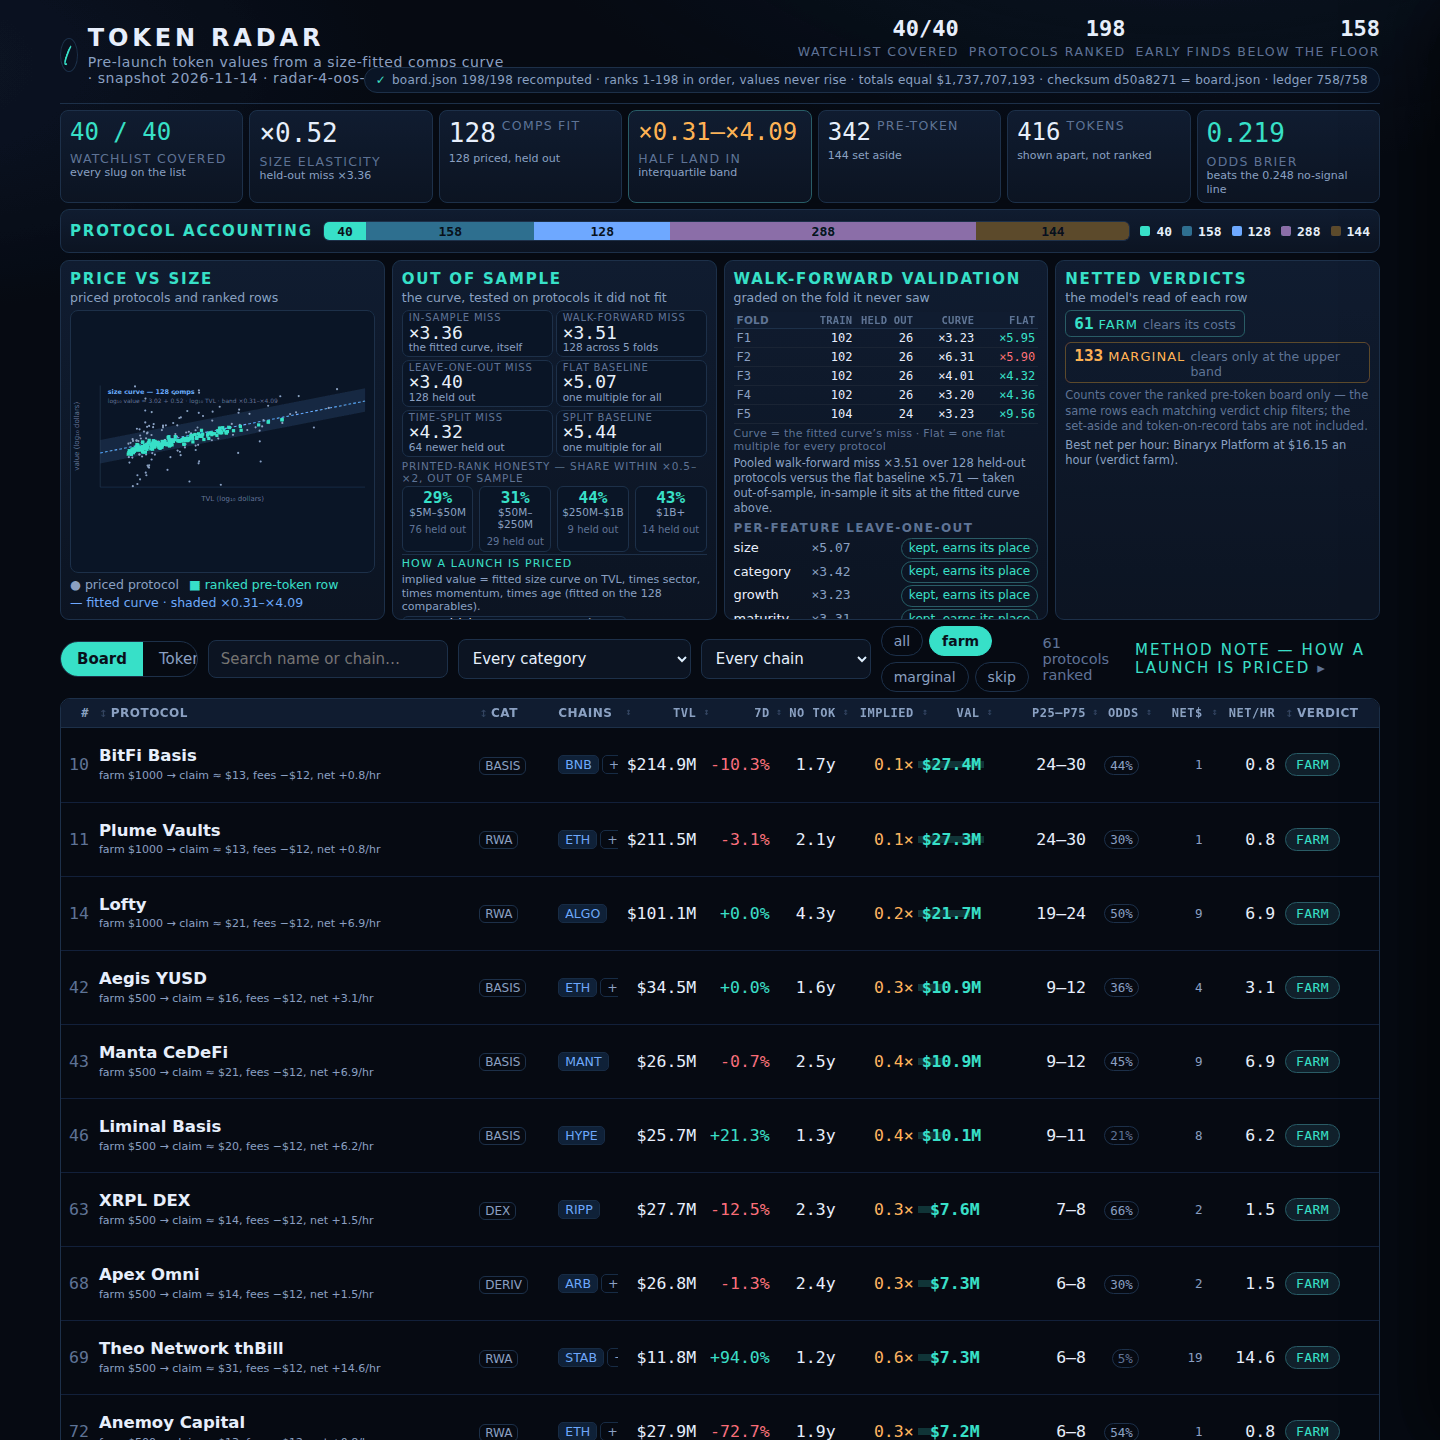
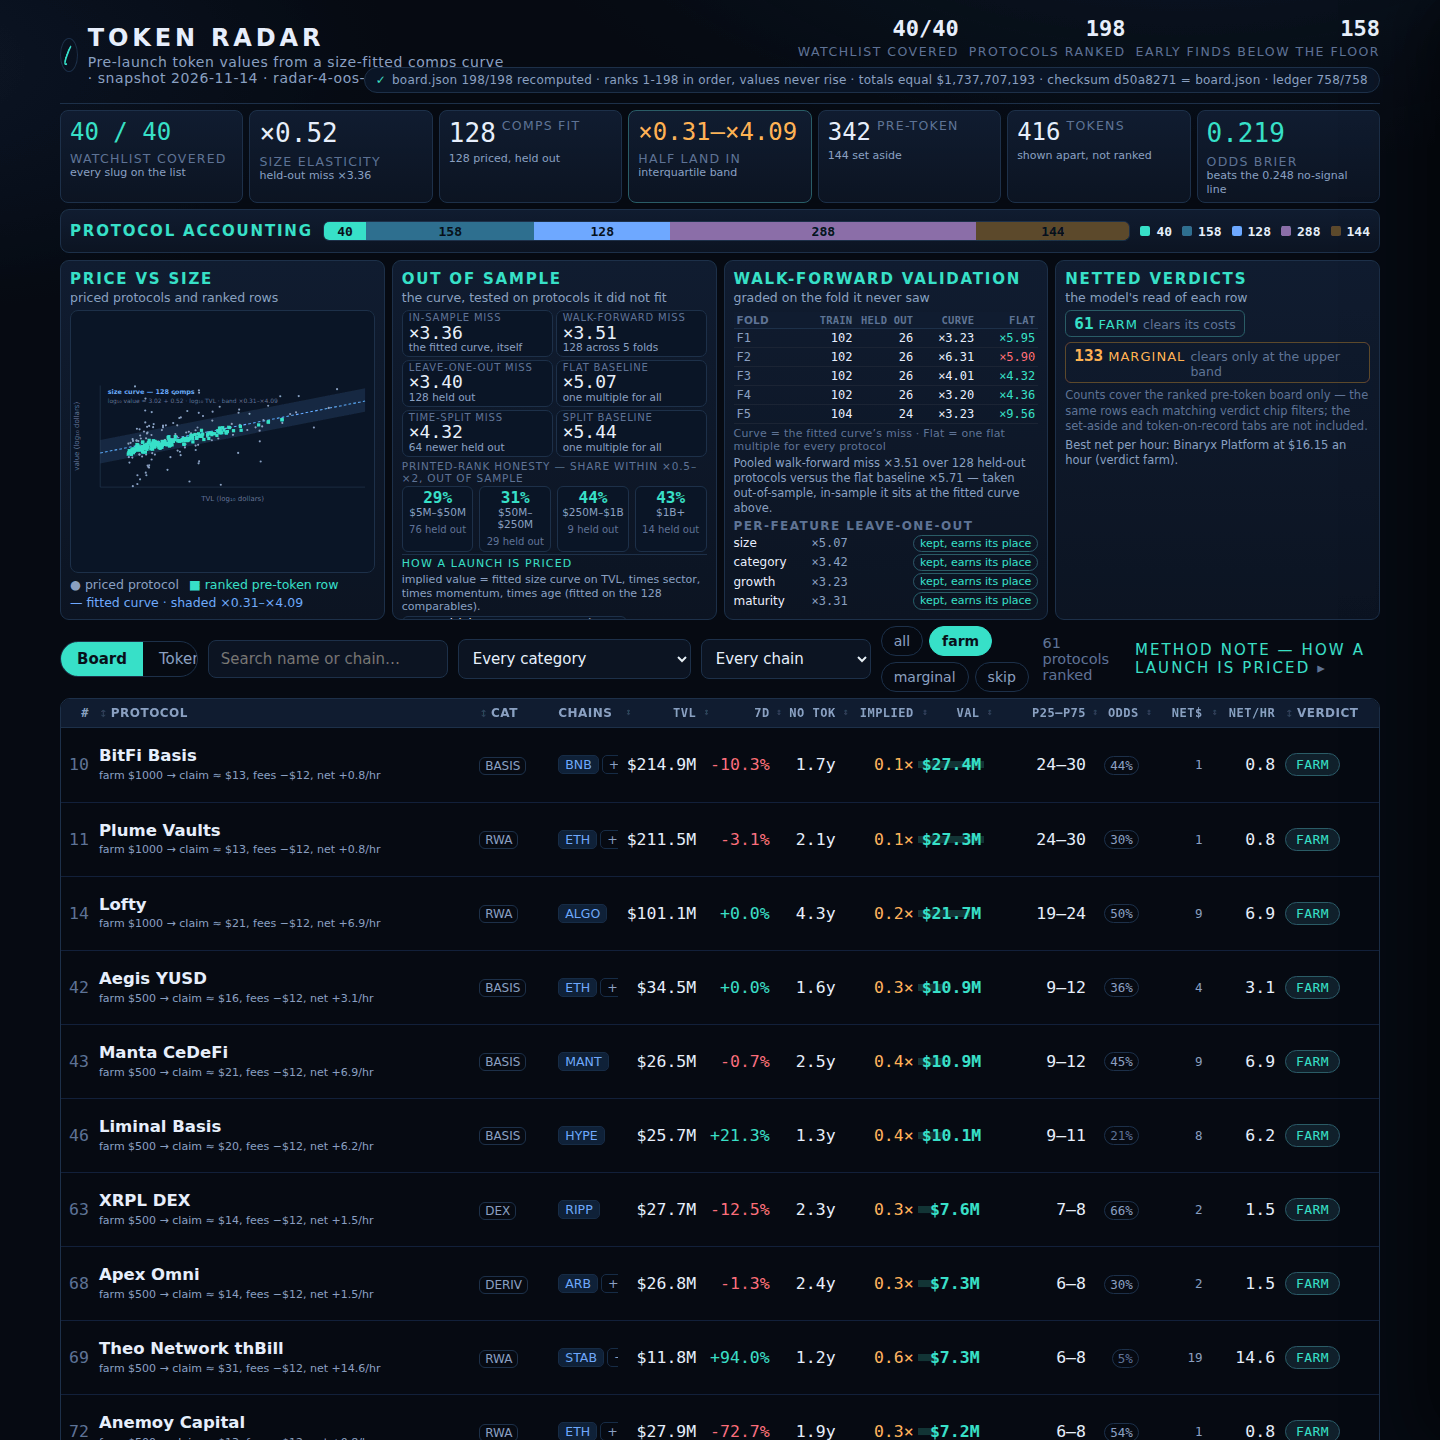
fix18: LOO rows fit inside walk card (font/padding trim)

Changed region(s): [[0.5, 0.3438, 0.7188, 0.4375]]

diff --git a/dashboard/app.css b/dashboard/app.css
@@ -179,12 +179,12 @@ footer { margin-top: calc(var(--u) * 4); color: var(--dim); font-size: 13.5px; b
 .walk td { padding: 2px 3px; text-align: right; font-family: var(--mono); font-variant-numeric: tabular-nums; font-size: 12px; border-bottom: 1px solid #ffffff0d; white-space: nowrap; overflow: hidden; text-overflow: ellipsis; } /* fold cell */
 .walk td:first-child { text-align: left; color: var(--muted); } /* fold number */
 .walk-legend { color: var(--dim); font-size: 11px; letter-spacing: .02em; margin-top: 3px; } /* fold legend for the abbreviated heads */
-.loose-head { font-size: 12px; text-transform: uppercase; letter-spacing: .12em; color: var(--dim); margin: calc(var(--u) * .625) 0 calc(var(--u) * .375); } /* loo heading */
+.loose-head { font-size: 12px; text-transform: uppercase; letter-spacing: .12em; color: var(--dim); margin: calc(var(--u) * .375) 0 calc(var(--u) * .25); } /* loo heading */
 .loo { display: flex; flex-direction: column; gap: 2px; } /* loo list */
-.loo-row { display: flex; align-items: center; gap: 8px; font-size: 13px; line-height: 1.3; } /* loo row */
+.loo-row { display: flex; align-items: center; gap: 8px; font-size: 12px; line-height: 1.2; } /* loo row */
 .loo-name { color: var(--ink); min-width: 70px; } /* feature name */
 .loo-miss { font-family: var(--mono); color: var(--muted); } /* dropped miss */
-.badge { margin-left: auto; font-size: 12px; padding: 2px 7px; border-radius: 999px; border: 1px solid var(--line); } /* result badge */
+.badge { margin-left: auto; font-size: 11px; padding: 1px 6px; border-radius: 999px; border: 1px solid var(--line); } /* result badge */
 .badge.kept { color: var(--accent); border-color: #2b5c66; } /* kept feature */
 .badge.dropped { color: var(--warn); border-color: #5c4a2b; } /* discarded feature */
 
